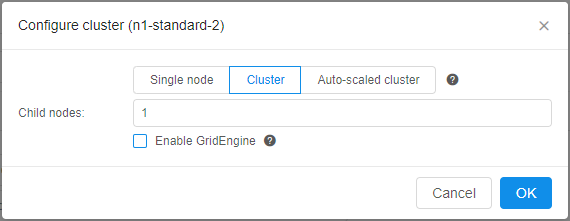
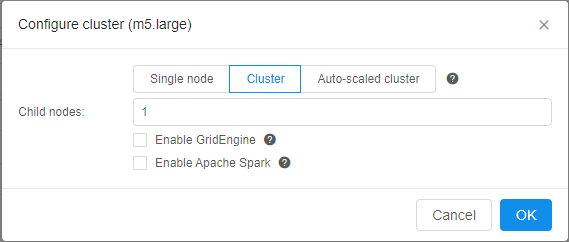
RN v.0.15 updated. Addes sections about 'Apache Spark' and 'Limit of SSH connections'

diff --git a/docs/md/manual/15_Interactive_services/15.3_Interactive_service_examples.md b/docs/md/manual/15_Interactive_services/15.3_Interactive_service_examples.md
@@ -1,0 +1,114 @@
+# 15.3. Interactive service examples
+
+- [Running Apache Spark cluster with RStudio Web GUI](#running-apache-spark-cluster-with-rstudio-web-gui)
+    - [Launch the RStudio tool with Apache Cluster](#launch-the-rstudio-tool-with-apache-cluster)
+    - [Example of `sparklyr` script](#example-of-sparklyr-script)
+    - [Monitoring execution via Spark UI](#monitoring-execution-via-spark-ui)
+
+> To run a **Tool** or a **Pipeline** as an **Interactive service** you need to have **EXECUTE** permissions for that Tool/Pipeline. For more information see [13. Permissions](../13_Permissions/13._Permissions.md).
+
+On this page, you'll find examples of launching Interactive applications with various features.
+
+## Running Apache Spark cluster with RStudio Web GUI
+
+### Launch the RStudio tool with Apache Cluster
+
+1. Navigate to the list of registered **Tools** and search for the **RStudio** Tool:  
+    ![CP_InteractiveServiceExamples](attachments/ServiceExamples_01.png)
+2. Go to the **Tool** page and click the arrow near the **Run** button → Select **"Custom Settings"**.  
+    ![CP_InteractiveServiceExamples](attachments/TerminalAccess_2.png)
+3. At the **Launch** page select **Node type** (from which the subsequent cluster will consist).  
+    **_Note_**: it is recommended to select nodes with more memory volume, because it is critical for Spark's in-memory processing
+4. Click the **Configure cluster** button:  
+    ![CP_InteractiveServiceExamples](attachments/ServiceExamples_02.png)
+5. At the popup select the **Cluster** tab, set the number of **Child nodes** to create (e.g. 2 or more), then tick the **Enable Apache Spark** checkbox and confirm by the **OK** button:  
+    ![CP_InteractiveServiceExamples](attachments/ServiceExamples_03.png)  
+    Or you could enable Apache Spark by manually adding the system parameter `CP_CAP_SPARK` with `true` value:  
+    ![CP_InteractiveServiceExamples](attachments/ServiceExamples_04.png)
+6. Click the **Launch** button:  
+    ![CP_InteractiveServiceExamples](attachments/ServiceExamples_05.png)
+    At the popup confirm the launch.
+7. Check that the cluster has appeared in the **ACTIVE RUNS** tab of the **Runs** page:  
+    ![CP_InteractiveServiceExamples](attachments/ServiceExamples_06.png)
+8. Wait until all components are initialized. The cluster tile in the **ACTIVE RUNS** tab will turn into yellow. Click on the parent run to open the **Run logs** page:  
+    ![CP_InteractiveServiceExamples](attachments/ServiceExamples_07.png)
+9. At the **Run logs** page there are two endpoints:
+    - **_RStudio_** - it exposes RStudio's Web IDE
+    - **_SparkUI_** - it exposes Web GUI of the Spark. It allows to monitor Spark master/workers/application via the web-browser. Details are
+available in the [Spark UI manual](https://jaceklaskowski.gitbooks.io/mastering-apache-spark/spark-webui.html)  
+    ![CP_InteractiveServiceExamples](attachments/ServiceExamples_08.png)
+10. Click the **RStudio** endpoint. This will load RStudio Web GUI with the pre-installed `sparklyr` package in the new tab of the web-browser:  
+    ![CP_InteractiveServiceExamples](attachments/ServiceExamples_09.png)
+
+From here one can start coding in R using `sparklyr` to run the workload over the cluster.
+
+### Example of `sparklyr` script
+
+It is assumed that a **Spark** cluster with the RStudio Web GUI and `sparklyr` package is up and running, as shown in the previous section.
+
+#### Accessing datasets from the Cloud Pipeline's Spark
+
+1. **Access to data via File Storages**  
+If the user has an access to the FS storage - then datasets from such storage can be accessed via the **`file://`** schema or without a schema at all. But this approach may start to degrade once there is 100+ cores cluster with a lot of
+I/O operations.
+2. **Access to data via Object Storages**  
+    **_Note_**: this feature is available only for `AWS` Cloud Provider.  
+    Spark cluster configuration uses the stable version of the [Hadoop-AWS module](https://hadoop.apache.org/docs/current/hadoop-aws/tools/hadoop-aws/index.html), that allows to directly access (read/write) the datasets in the S3 buckets using Spark jobs.  
+    The only difference with the filesystem access - is the URL schema. **`s3a://`** prefix shall be used instead of **`s3://`**. E.g. if there is a user's S3 bucket named "**_test-object-storage_**" with the "**_test\_dataset.parquet_**" dataset - then it can be accessed as "**_s3a://test-object-storage/test\_dataset.parquet_**" from the `sparklyr` code (or any other Spark job).
+
+#### Prepare and run `sparklyr` script
+
+This section provides prepare and run of R script that shows how to connect to the Spark cluster, deployed in the Cloud Pipeline, and read/write the data from/to object data storage.
+
+> **_Note_**: we will use S3 bucket with directly access to data as described above. This script will not work for other Cloud Providers.
+
+For this example, a small public VCF file will be used. It is located in some S3 bucket e.g.:  
+    ![CP_InteractiveServiceExamples](attachments/ServiceExamples_10.png)
+
+So, prepare the following script:
+
+``` R
+library(sparklyr)
+# Cloud Pipeline provides the SPARK's master URL in SPARK_MASTER variable
+# SPARK_HOME variabe is set by the Cloud Pipeline and will be used by sparklyr - no need to specify it explicitly
+# Spark version will be retrieved by sparklyr from the $SPARK_HOME/RELEASE file - no need to specify it explicitly
+master <- Sys.getenv("SPARK_MASTER")
+sc <- spark_connect(master=master)
+# Get the current Cloud Pipeline's unique Run ID to write the results into the unique directory
+unique_id <- Sys.getenv("RUN_ID")
+# Setup input VCF (tab-delimited) file location and the resulting parquet file
+# Note that both input and output are located in the S3 bucket and are addressed via s3a:// schema
+example_data_vcf_path <- "s3a://objstor/TestSample.vcf"
+example_data_parquet_path <- paste("s3a://objstor/results", unique_id, "example_data.parquet", sep="/")
+# Read VCF from the storage and convert to the DataFrame
+example_data_df <- spark_read_csv(sc = sc,
+                                  name = "example_data_vcf",
+                                  path = example_data_vcf_path,
+                                  header = F,
+                                  delimiter = "\t")
+# Write DataFrame as a parquet to the storage
+spark_write_parquet(example_data_df, path = example_data_parquet_path)
+```
+
+1. Paste that script into the RStudio console and launch it:  
+    ![CP_InteractiveServiceExamples](attachments/ServiceExamples_11.png)
+2. Once script is finished - resulting parquet will be written to the storage. To check it open in the **Library** the storage, that was specified for output results:  
+    ![CP_InteractiveServiceExamples](attachments/ServiceExamples_12.png)
+3. Open the path for output results - you will see the directory with the name equal to the Run ID that contains resulting files:  
+    ![CP_InteractiveServiceExamples](attachments/ServiceExamples_13.png)  
+    ![CP_InteractiveServiceExamples](attachments/ServiceExamples_14.png)  
+    ![CP_InteractiveServiceExamples](attachments/ServiceExamples_15.png)
+
+### Monitoring execution via Spark UI
+
+1. To view the details of the jobs being executed in Spark, how the memory is used and get other useful information - the **SparkUI** endpoint from the **Run logs** page shall be opened.  
+While executing the example [script](#prepare-and-run-sparklyr-script), open the Spark UI endpoint:  
+    ![CP_InteractiveServiceExamples](attachments/ServiceExamples_19.png)
+2. A list of active applications and workers will be shown:  
+    ![CP_InteractiveServiceExamples](attachments/ServiceExamples_16.png)
+3. To get the details of the underlying jobs, executed by the Spark instance, click the application name:  
+    ![CP_InteractiveServiceExamples](attachments/ServiceExamples_17.png)  
+    The following page will be opened:  
+    ![CP_InteractiveServiceExamples](attachments/ServiceExamples_18.png)
+
+For more details about Spark UI opportunities see [here](https://jaceklaskowski.gitbooks.io/mastering-apache-spark/spark-webui.html).

diff --git a/docs/md/release_notes/v.0.15/v.0.15_-_Release_notes.md b/docs/md/release_notes/v.0.15/v.0.15_-_Release_notes.md
@@ -5,6 +5,7 @@
 - [Limit mounted storages](#limit-mounted-storages)
 - [Personal SSH keys configuration](#personal-ssh-keys-configuration)
 - [Allow to set the Grid Engine capability for the "fixed" cluster](#allow-to-set-the-grid-engine-capability-for-the-fixed-cluster)
+- [Enable Apache Spark for the Cloud Pipeline's clusters](#enable-apache-spark-for-the-cloud-pipelines-clusters)
 - [Consider Cloud Providers' resource limitations when scheduling a job](#consider-cloud-providers-resource-limitations-when-scheduling-a-job)
 - [Allow to terminate paused runs](#allow-to-terminate-paused-runs)
 - [Pre/Post-commit hooks implementation](#prepost-commit-hooks-implementation)
@@ -21,6 +22,7 @@
 - [Displaying information on the nested runs](#displaying-information-on-the-nested-runs-within-a-parent-log-form)
 - [Environment Modules support](#environment-modules-support-for-the-cloud-pipeline-runs)
 - [Sharing SSH access to running instances with other user(s)/group(s)](#sharing-ssh-access-to-running-instances-with-other-usersgroups)
+- [Allow to limit the number of concurrent SSH sessions](#allow-to-limit-the-number-of-concurrent-ssh-sessions)
 - [Verification of docker/storage permissions when launching a run](#verification-of-dockerstorage-permissions-when-launching-a-run)
 - [Ability to override the queue/PE configuration in the GE configuration](#ability-to-override-the-queuepe-configuration-in-the-ge-configuration)
 - [Estimation run's disk size according to the input/common parameters](#estimation-runs-disk-size-according-to-the-inputcommon-parameters)
@@ -142,13 +144,42 @@ This is accomplished by using the `Enable GridEngine` checkbox. By default, this
 Also a number of help icons is added to the `Cluster configuration` dialog to clarify the controls purpose:
 
 - Popup header (E.g. next to the tabs line) - displays information on different cluster modes
-- (Cluster) `Enable GridEngine checkbox` - displays information on the GridEngine usage
+- (Cluster) `Enable GridEngine` checkbox - displays information on the GridEngine usage
+- (Cluster) `Enable Apache Spark` checkbox - displays information on the Apache Spark usage (see [below](#enable-apache-spark-for-the-cloud-pipelines-clusters))
 - (Auto-scaled cluster) `Auto-scaled up` - displays information on the autoscaling logic
 - (Auto-scaled cluster) `Default child nodes` - displays information on the initial node pool size
 
 ![CP_v.0.15_ReleaseNotes](attachments/RN015_GE_Autoconfig_1.png)
 
 See more information about cluster launch [here](../../manual/06_Manage_Pipeline/6._Manage_Pipeline.md#configuration).
+
+## Enable Apache Spark for the Cloud Pipeline's clusters
+
+Another one feature for the Cloud Pipeline's clusters was implemented in **`v0.15`**.  
+Now, [**`Apache Spark`**](https://jaceklaskowski.gitbooks.io/mastering-apache-spark/spark-overview.html) with the access to File/Object Storages from the `Spark Applications` can be configured within the `Cluster` tab. It is available only for the fixed size clusters.
+
+To enable this feature - tick the `Enable Apache Spark` checkbox and set the child nodes count at cluster settings. By default, this checkbox is unticked. Also users can manually enable `Spark` functionality by the `CP_CAP_SPARK` system parameter:  
+    ![CP_v.0.15_ReleaseNotes](attachments/RN015_Spark_1.png)
+
+This feature, for example, allows you to run `Apache Spark` cluster with RStudio where you may code in R using `sparklyr` to run the workload over the cluster:
+
+1. Open the **RStudio** tool  
+    ![CP_v.0.15_ReleaseNotes](attachments/RN015_Spark_2.png)
+2. Select the node type, set the `Apache Spark` cluster as shown above, and launch the tool:
+    ![CP_v.0.15_ReleaseNotes](attachments/RN015_Spark_3.png)
+3. Open main **Dashboard** and wait until the **OPEN** hyperlink for the launched tool will appear. Hover over it:  
+    ![CP_v.0.15_ReleaseNotes](attachments/RN015_Spark_4.png)  
+    Two endpoints will appear:
+    - **_RStudio_** (as the main endpoint it is in bold) - it exposes RStudio's Web IDE
+    - **_SparkUI_** - it exposes Web GUI of the Spark. It allows to monitor Spark master/workers/application via the web-browser. Details are available in the [Spark UI manual](https://jaceklaskowski.gitbooks.io/mastering-apache-spark/spark-webui.html)
+4. Click the **RStudio** endpoint:  
+    ![CP_v.0.15_ReleaseNotes](attachments/RN015_Spark_5.png)  
+    Here you can start create scripts in `R` using the pre-installed `sparklyr` package to distribute the workload over the cluster.
+5. Click the **SparkUI** endpoint:  
+    ![CP_v.0.15_ReleaseNotes](attachments/RN015_Spark_6.png)  
+    Here you can view the details of the jobs being executed in Spark, how the memory is used and get other useful information.
+
+For more information about using `Apache Spark` via the `Cloud Pipeline` see [here](../../manual/15_Interactive_services/15.3_Interactive_service_examples.md#running-apache-spark-cluster-with-rstudio-web-gui).
 
 ## Consider Cloud Providers' resource limitations when scheduling a job
 
@@ -435,6 +466,14 @@ To get SSH-access to the shared instance user should hover over service "card" a
     ![CP_v.0.15_ReleaseNotes](attachments/RN015_SharingInstancesSSH_4.png)
 
 For more information about runs sharing see [11.3. Sharing with other users or groups of users](../../manual/11_Manage_Runs/11.3._Sharing_with_other_users_or_groups_of_users.md).
+
+## Allow to limit the number of concurrent SSH sessions
+
+Previously, some users could try to start a real big number of Web SSH sessions. If 1000+ SSH sessions are established via EDGE service, the performance will degrade. It is not common, but it could be critical as it affects all the users of the platform deploment.
+
+To avoid such cases, in **`v0.15`** the [`pipectl`](#installation-via-pipectl) parameter **`CP_EDGE_MAX_SSH_CONNECTIONS`** (with default value `25`) for the EDGE server is introduced, that allows to control a number of simultaneous SSH connections to a single job.  
+Now, if this max number will be reached, the next attemp to open another one Web SSH session to the same job will return a notification to the user and a new session will not be opened until the any one previous is closed:  
+    ![CP_v.0.15_ReleaseNotes](attachments/RN015_SSH_SessionLimits_1.png)
 
 ## Verification of docker/storage permissions when launching a run
 

diff --git a/docs/md/manual/Cloud_Pipeline_-_Manual.md b/docs/md/manual/Cloud_Pipeline_-_Manual.md
@@ -70,6 +70,7 @@
 - [15. Interactive services](15_Interactive_services/15._Interactive_services.md)
     - [15.1 Starting an Interactive application](15_Interactive_services/15.1_Starting_an_Interactive_application.md)
     - [15.2 Using Terminal access](15_Interactive_services/15.2_Using_Terminal_access.md)
+    - [15.3 Interactive service examples](15_Interactive_services/15.3_Interactive_service_examples.md)
 - [16. Issues](16_Issues/16._Issues.md)
 - [17. CP objects tagging by additional attributes](17_Tagging_by_attributes/17._CP_objects_tagging_by_additional_attributes.md)
 - [18. Home page](18_Home_page/18._Home_page.md)
